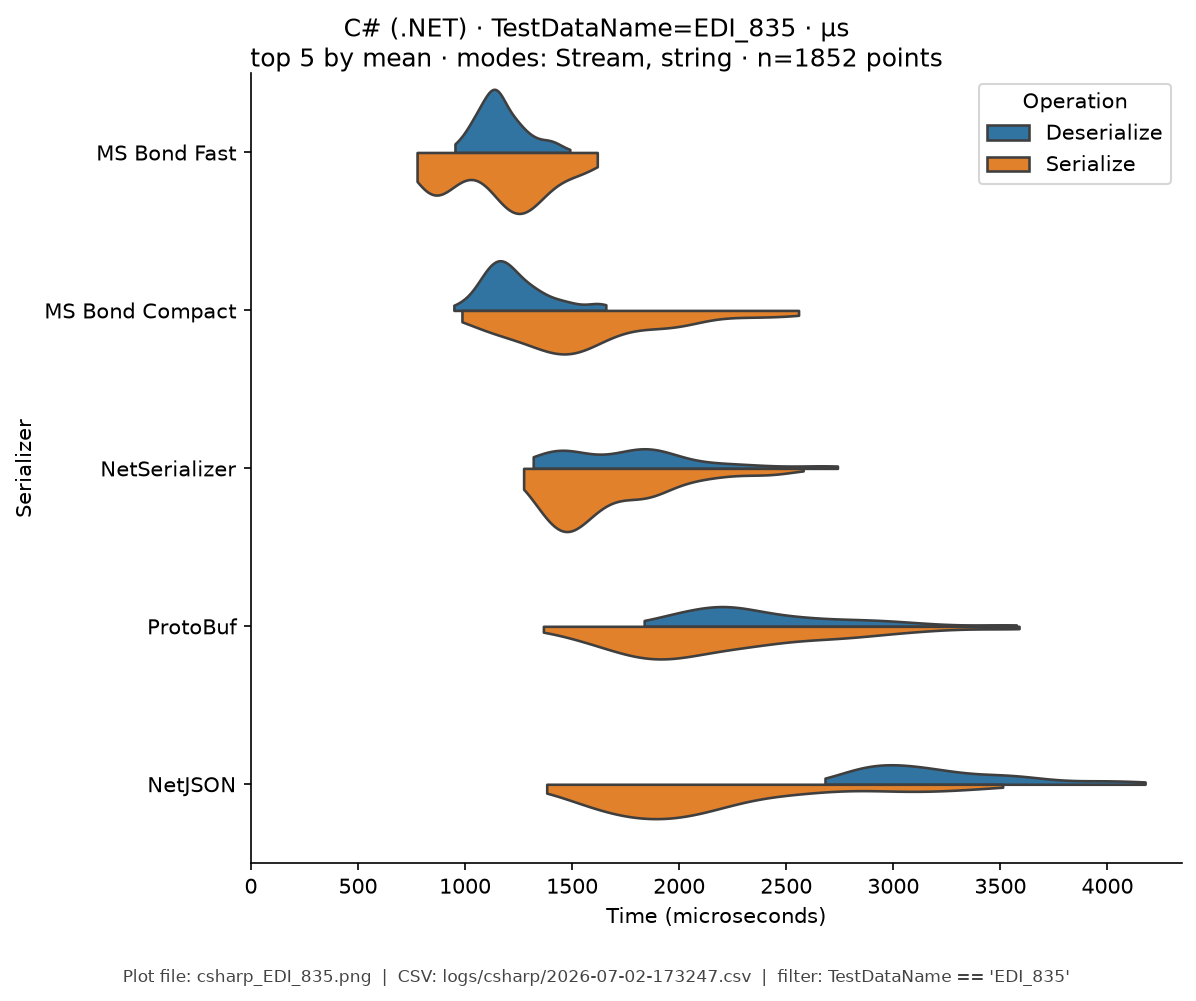
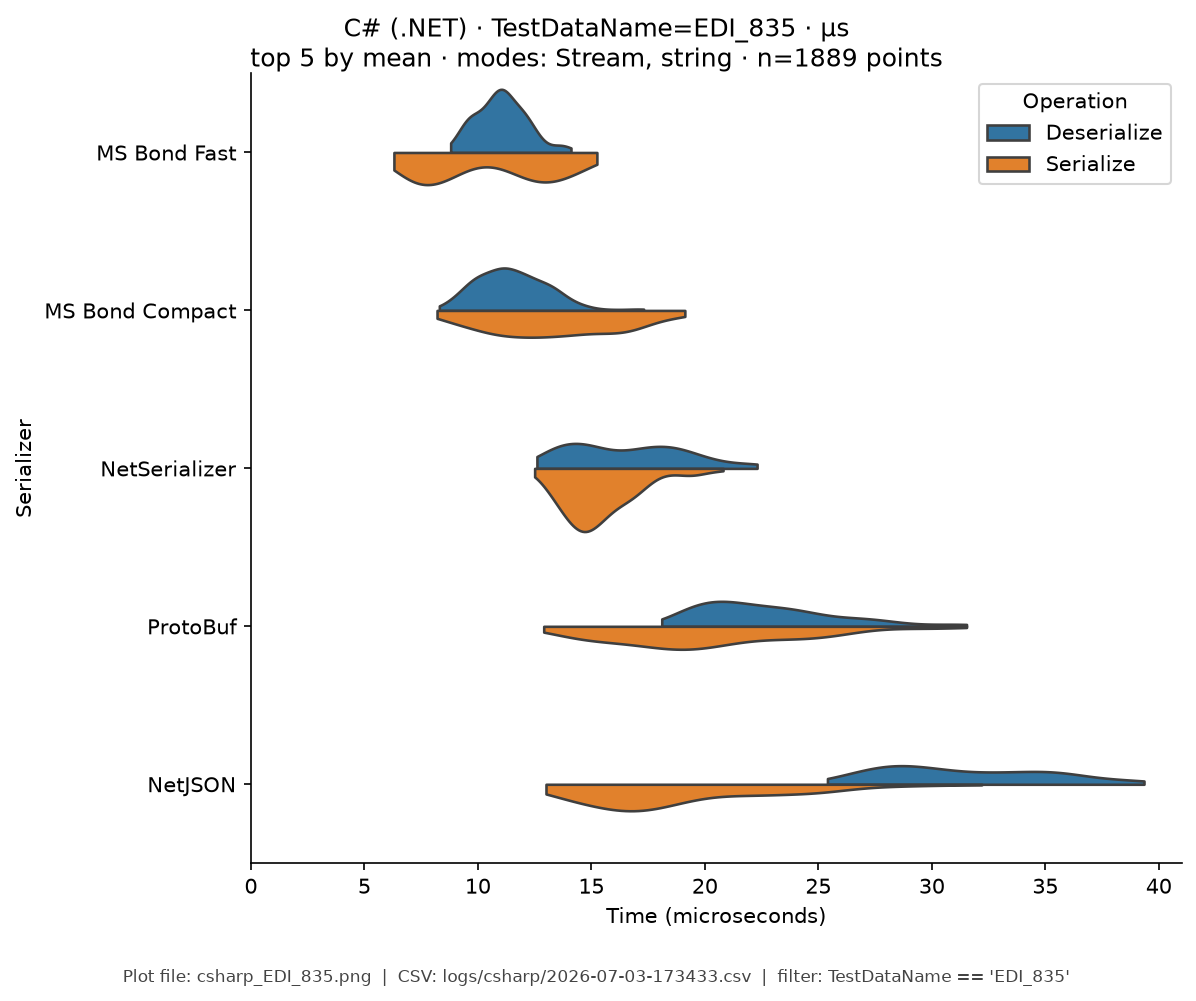
results(csharp): full ns run and regenerate Results/violins
Re-run C# full mode (100 reps) after TotalNanoseconds harness change;
rebuild docs/c-sharp/results.md and csharp violin plots from
logs/csharp/2026-07-03-173433.csv (35200 rows, identity ns analysis).

diff --git a/docs/c-sharp/results.md b/docs/c-sharp/results.md
@@ -1,6 +1,6 @@
 # C# (.NET) — Benchmark Results
 
-**Generated:** 2026-07-02T17:53:54.967409
+**Generated:** 2026-07-03T17:38:35.245709
 
 Published **local snapshot** (not regenerated by GitHub Actions). Numbers may differ if you re-run benchmarks on another machine.
 
@@ -15,76 +15,76 @@ Harness **modes** (CSV `StringOrStream`): **bytes mode** = in-memory buffer API;
 
 | serializer | stream mode | string mode |
 |---|---|---|
-| Ceras | 3600 | 3100 |
-| CsvHelper | 36000 | 36000 |
-| ExtendedXmlSerializer | 1200 | 1200 |
-| FlatSharp | 590 | 580 |
-| FsPickler | 3200 | 3000 |
-| FsPicklerJson | 5400 | 5500 |
-| GroBuf | **270** | **240** |
-| Hyperion | 2600 | 2800 |
-| Jil | 2600 | 2300 |
-| Json.Net | 4900 | 4500 |
-| Json.Net (Helper) | 9100 | 8100 |
-| MS Binary | 7800 | 7600 |
-| MS Bond Compact | 1600 | 730 |
-| MS Bond Fast | 1300 | 520 |
-| MS Bond Json | 2800 | 2600 |
-| MS DataContract | 6300 | 6000 |
-| MS DataContract Json | 6100 | 5800 |
-| MS XmlSerializer | 6200 | 6000 |
-| MemoryPack | 460 | 410 |
-| Migrant | 3700 | 3800 |
-| NetJSON | 2600 | 2000 |
-| NetSerializer | 910 | 1000 |
-| ProtoBuf | 2400 | 2200 |
-| ServiceStack | 5300 | 4800 |
-| ServiceStack Json | 6500 | 5700 |
-| SharpSerializer | 3600 | 3700 |
-| SharpYaml | 43000 | 37000 |
-| SpanJson | 2100 | 1800 |
-| Utf8Json | 3100 | 2700 |
-| YAXLib | 61000 | 58000 |
-| YamlDotNet | 48000 | 44000 |
-| fastJson | 7000 | 6200 |
+| Ceras | 64 | 45 |
+| CsvHelper | 440 | 460 |
+| ExtendedXmlSerializer | 17 | 16 |
+| FlatSharp | 11 | 9 |
+| FsPickler | 56 | 41 |
+| FsPicklerJson | 65 | 61 |
+| GroBuf | **4.3** | **3.9** |
+| Hyperion | 40 | 35 |
+| Jil | 38 | 29 |
+| Json.Net | 54 | 47 |
+| Json.Net (Helper) | 120 | 93 |
+| MS Binary | 110 | 91 |
+| MS Bond Compact | 21 | 9.7 |
+| MS Bond Fast | 15 | 5.9 |
+| MS Bond Json | 36 | 29 |
+| MS DataContract | 98 | 76 |
+| MS DataContract Json | 82 | 66 |
+| MS XmlSerializer | 91 | 70 |
+| MemoryPack | 8.6 | 6.9 |
+| Migrant | 53 | 54 |
+| NetJSON | 37 | 26 |
+| NetSerializer | 13 | 13 |
+| ProtoBuf | 32 | 25 |
+| ServiceStack | 75 | 57 |
+| ServiceStack Json | 92 | 67 |
+| SharpSerializer | 47 | 48 |
+| SharpYaml | 490 | 410 |
+| SpanJson | 33 | 23 |
+| Utf8Json | 48 | 32 |
+| YAXLib | 740 | 620 |
+| YamlDotNet | 610 | 490 |
+| fastJson | 96 | 72 |
 
 
 ### C# (.NET): Ops/Sec by Serializer and Data Type
 
-| serializer | EDI_835 | Integer (K) | ObjectGraph | Person (K) | SimpleObject (K) | StringArray | Telemetry (K) |
+| serializer | EDI_835 (K) | Integer (K) | ObjectGraph (K) | Person (K) | SimpleObject (K) | StringArray (K) | Telemetry (K) |
 |---|---|---|---|---|---|---|---|
-| Ceras | 130 | 0.81K | 390 | 0.32K | 0.22K | 66 | 0.2K |
-| CsvHelper | - | 0.028K | - | - | 0.0035K | - | - |
-| ExtendedXmlSerializer | - | 0.81K | - | - | - | - | - |
-| FlatSharp | - | 1.7K | - | - | 0.35K | 94 | - |
-| FsPickler | 120 | 0.69K | 340 | 0.33K | 0.2K | 61 | 0.22K |
-| FsPicklerJson | 43 | 0.37K | 230 | 0.18K | 0.18K | 49 | 0.072K |
-| GroBuf | - | 4.1K | - | - | 1K | - | - |
-| Hyperion | 130 | 2.6K | - | 0.35K | 0.48K | 72 | 0.25K |
-| Jil | 96 | 1.8K | - | 0.43K | 0.49K | 59 | 0.076K |
-| Json.Net | 41 | 3.7K | **500** | 0.22K | 0.69K | 68 | 0.08K |
-| Json.Net (Helper) | 32 | 0.92K | 260 | 0.12K | 0.16K | 47 | 0.061K |
-| MS Binary | 42 | 0.4K | 140 | 0.13K | 0.12K | 38 | 0.14K |
-| MS Bond Compact | 370 | 3.8K | - | 1.4K | 1.1K | 140 | 0.83K |
-| MS Bond Fast | **450** | **7.2K** | - | **1.9K** | **2.1K** | **160** | **1.4K** |
-| MS Bond Json | 80 | 2.4K | - | 0.38K | 0.39K | 82 | 0.1K |
-| MS DataContract | 43 | 0.6K | 170 | 0.17K | 0.11K | 28 | 0.057K |
-| MS DataContract Json | 36 | 0.84K | - | 0.17K | 0.16K | 30 | 0.065K |
-| MS XmlSerializer | 46 | 0.51K | - | 0.17K | 0.13K | 30 | 0.063K |
-| MemoryPack | - | 2.5K | - | - | 0.45K | 100 | - |
-| Migrant | - | 0.26K | - | - | 0.05K | - | - |
-| NetJSON | 190 | 2.7K | - | 0.49K | 0.41K | 71 | 0.099K |
-| NetSerializer | 260 | 5K | - | 0.96K | 1.2K | 130 | 0.2K |
-| ProtoBuf | 210 | 1.2K | - | 0.45K | 0.35K | 78 | 0.3K |
-| ServiceStack | 59 | 3.8K | - | 0.21K | 0.25K | 55 | 0.061K |
-| ServiceStack Json | 49 | 2.7K | - | 0.18K | 0.22K | 51 | 0.052K |
-| SharpSerializer | 11 | 0.27K | 31 | - | 0.073K | 18 | - |
-| SharpYaml | 13 | 0.44K | - | 0.027K | 0.036K | 5.9 | 0.013K |
-| SpanJson | 160 | 1.5K | - | 0.56K | 0.31K | 80 | 0.11K |
-| Utf8Json | 81 | 1.4K | - | 0.37K | 0.3K | 59 | 0.047K |
-| YAXLib | 9.9 | 0.12K | - | 0.017K | 0.019K | 11 | 0.012K |
-| YamlDotNet | 11 | 0.16K | 56 | 0.023K | 0.026K | 2.2 | 0.0056K |
-| fastJson | 54 | 1.1K | - | 0.16K | 0.2K | 64 | 0.059K |
+| Ceras | 14K | 57K | 38K | 22K | 29K | 9.2K | 16K |
+| CsvHelper | - | 2.2K | - | - | 0.4K | - | - |
+| ExtendedXmlSerializer | - | 62K | - | - | - | - | - |
+| FlatSharp | - | 110K | - | - | 55K | 12K | - |
+| FsPickler | 14K | 44K | 40K | 25K | 29K | 8K | 18K |
+| FsPicklerJson | 5.7K | 29K | 23K | 16K | 22K | 5.5K | 7K |
+| GroBuf | - | 260K | - | - | 200K | - | - |
+| Hyperion | 16K | 200K | - | 29K | 63K | 8.5K | 21K |
+| Jil | 11K | 110K | - | 35K | 63K | 6.8K | 7.6K |
+| Json.Net | 5.8K | 360K | **45K** | 21K | 60K | 7.3K | 8.4K |
+| Json.Net (Helper) | 4.3K | 63K | 26K | 11K | 21K | 5.8K | 5.9K |
+| MS Binary | 4.7K | 29K | 14K | 11K | 18K | 5.2K | 12K |
+| MS Bond Compact | 42K | 290K | - | 100K | 160K | 15K | 72K |
+| MS Bond Fast | **53K** | **640K** | - | **170K** | **280K** | **16K** | **130K** |
+| MS Bond Json | 11K | 170K | - | 34K | 52K | 10K | 11K |
+| MS DataContract | 5.1K | 36K | 18K | 13K | 17K | 3.2K | 5.4K |
+| MS DataContract Json | 4.9K | 56K | - | 15K | 20K | 3.4K | 6.5K |
+| MS XmlSerializer | 5.7K | 38K | - | 14K | 17K | 3.7K | 5K |
+| MemoryPack | - | 150K | - | - | 80K | 12K | - |
+| Migrant | - | 18K | - | - | 7.3K | - | - |
+| NetJSON | 19K | 210K | - | 39K | 56K | 7K | 10K |
+| NetSerializer | 29K | 360K | - | 78K | 140K | 13K | 18K |
+| ProtoBuf | 22K | 80K | - | 40K | 54K | 8.9K | 28K |
+| ServiceStack | 5.8K | 260K | - | 18K | 33K | 6.2K | 6.4K |
+| ServiceStack Json | 4.6K | 180K | - | 15K | 29K | 5.9K | 5.7K |
+| SharpSerializer | 1.1K | 21K | 3.2K | - | 9.7K | 2.1K | - |
+| SharpYaml | 2.1K | 33K | - | 2.4K | 4.6K | 0.63K | 1.2K |
+| SpanJson | 18K | 110K | - | 43K | 48K | 10K | 11K |
+| Utf8Json | 8.4K | 92K | - | 31K | 43K | 7K | 4.4K |
+| YAXLib | 1.1K | 8.4K | - | 1.6K | 2.6K | 1.6K | 1K |
+| YamlDotNet | 1.1K | 10K | 6.8K | 2K | 3.4K | 0.23K | 0.36K |
+| fastJson | 6.5K | 84K | - | 14K | 27K | 7.7K | 5.8K |
 
 ## Violin plots
 
